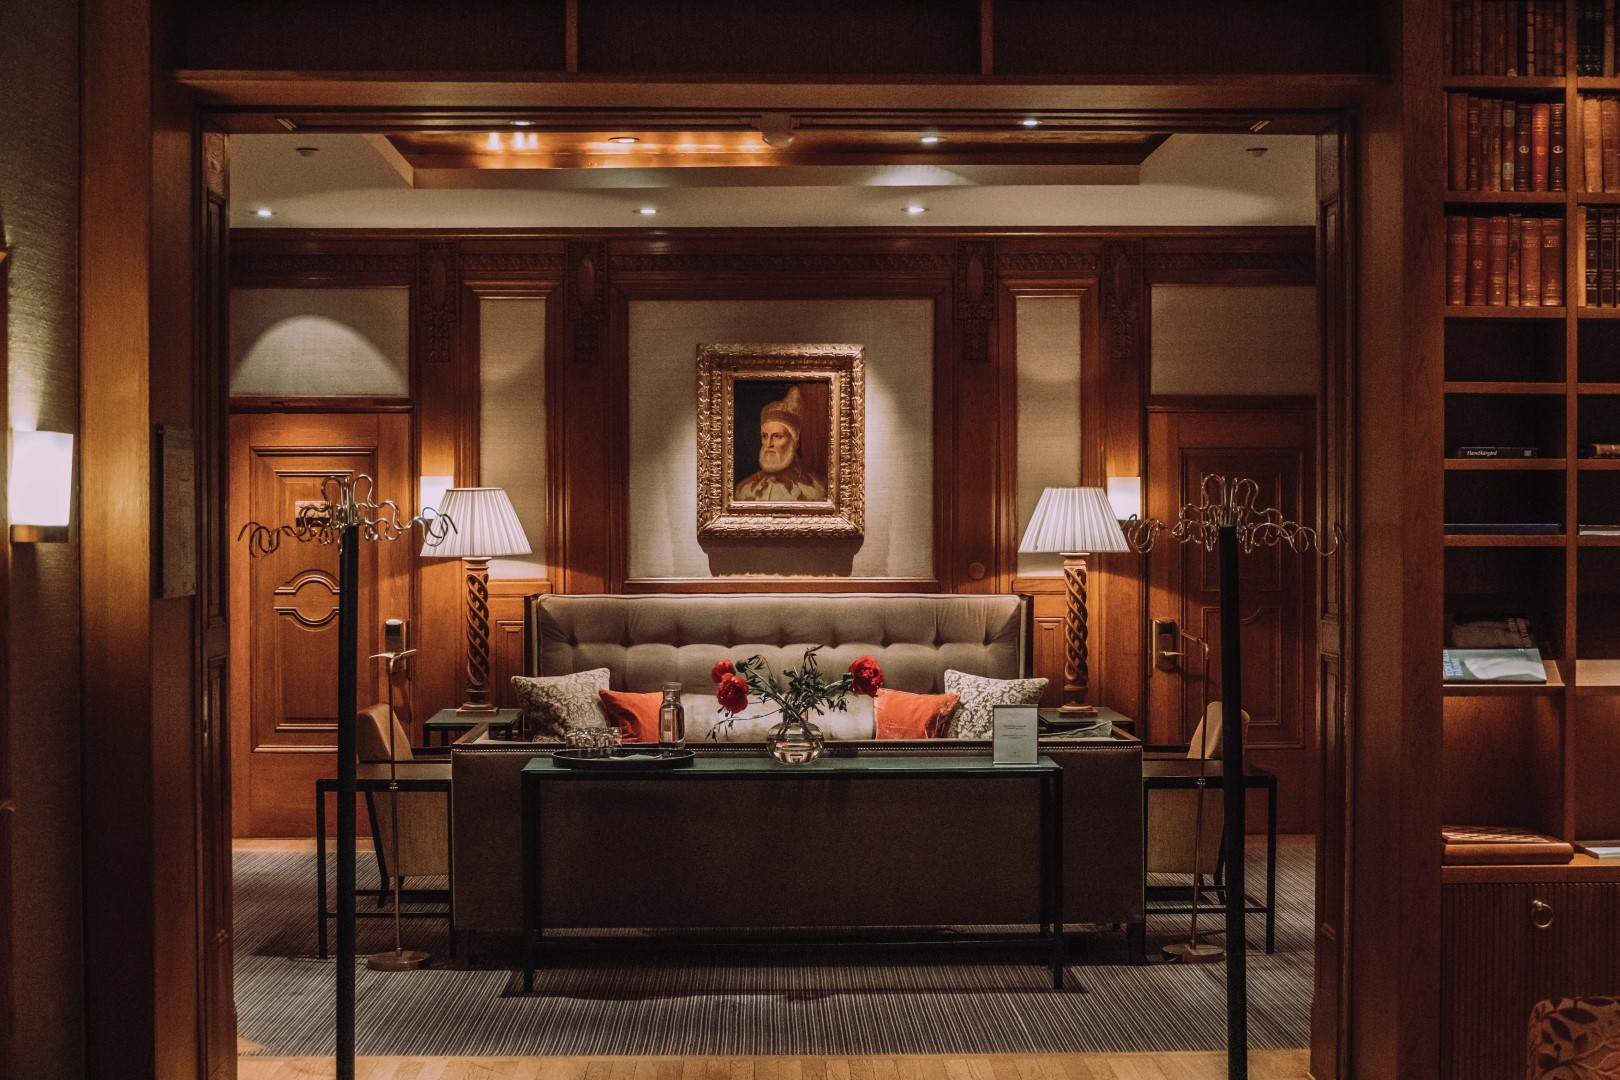
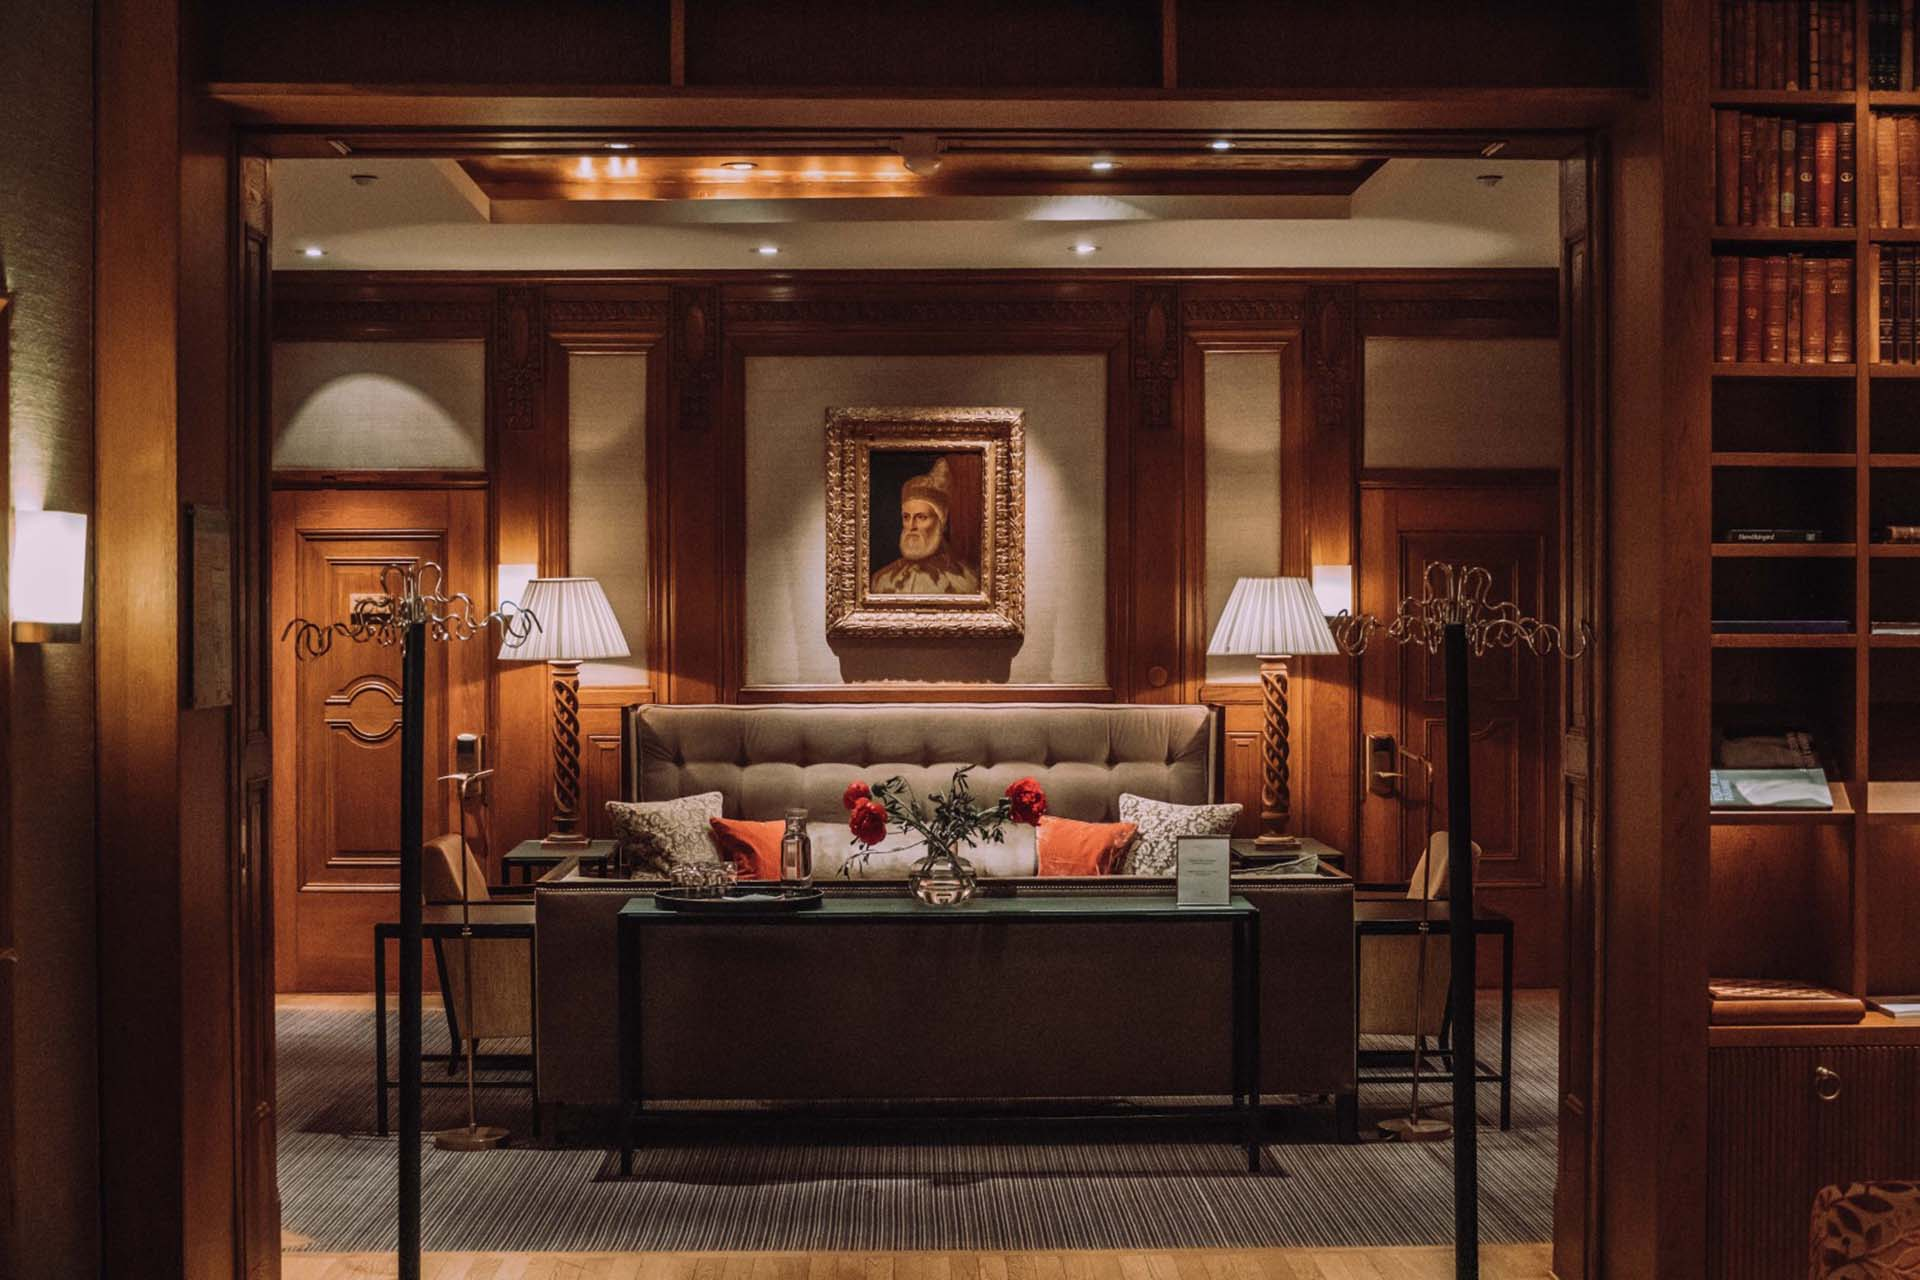
Rebuild of the Art de vivre section
Ticket KYV-508

diff --git a/pages/landing.html b/pages/landing.html
@@ -111,82 +111,80 @@
 
         <!--Art de vivre-->
         <div class="center no-padding">
-            <h6 class="txt-center">
-                Un Art de vivre
-            </h6>
             <div class="content center wrap no-padding gap-lg">
-                <div class="content flex33 no-mobile">
-                    <img class="rounded-corner col33" src="../img/lobby-hotel.jpg" alt="lobby hotel credit Rod Long"
-                        title="Credit : Rod Long">
+                <div class="content no-padding no-mobile">
+                    <img id="img-artdevivre" class="rounded-corner col33 tall" src="../img/keegan-check.jpg"
+                        alt="lobby hotel credit Keegan Check" title="Credit : Keegan Check">
                 </div>
                 <div class="content left column no-padding wide-flex50">
-                    <h2>
+                    <div class="no-gap content no-padding center column">
+                        <h6 class="txt-center">
+                            Un Art de vivre
+                        </h6>
+                        <img src="../img/kyvos-emblem2.svg" alt="Kyvos Emblem2" class="icon-lg">
+                    </div>
+                    <h3>
                         Un <span>savoir-faire</span> et un <span>savoir-être hôtelier</span>,
                         <br>
                         au service de votre entreprise.
-                    </h2>
+                    </h3>
 
                     <p class="txt-justify">Que vous soyez vous-même hôtelier ou non, vous apprécierez notre capacité
                         d’adaptation au
                         milieu
                         particulier dans lequel évolue votre entreprise.
                     </p>
-                    <p class="txt-justify">Fort de nos expériences professionnelles respectives, nous saurons
-                        compartimenter, analyser
-                        et
-                        optimiser
-                        vos opérations.<br><br>
-                    </p>
-                    <div class="content column center no-padding">
-                        <div class="content  center no-padding">
 
-                            <div class="content column no-padding">
-                                <div class="content no-padding gap-xs">
-                                    <img src="../img/icons/quote.svg" alt="quotation mark" class="icon-xs transform-x">
-                                    <h3 class="txt-justify quote font-weight-500">Maîtriser pour
-                                        s'affranchir</h3>
-                                    <img src="../img/icons/quote.svg" alt="quotation mark" class="icon-xs">
-                                </div>
-                                <p class="txt-justify">Parce que nous sommes de formation hôtelière, nous en maîtrisons
-                                    les
-                                    codes, les
-                                    enseignements
-                                    et
-                                    les
-                                    techniques. <br> C'est cette maîtrise des codes qui nous permet de savoir s'y tenir
-                                    et
-                                    quand
-                                    s'en affranchir pour s'adapter à la précision que requiert un service sur-mesure.
-                                    <br>
-                                    Parce que nous avons pratiqué cet enseignement de nombreuses années, à différents
-                                    échelons,
-                                    tant
-                                    opérationnels
-                                    qu’administratifs, nous connaissons la réalité du terrain. <br> <br>
-                                    Alors nous avons construit notre motto sur notre expérience : <br>
-                                <div class="content no-padding gap-xs">
-                                    <img src="../img/icons/quote.svg" alt="quotation mark" class="icon-xs transform-x">
-                                    <span class="quote font-weight-500 txt-xxl txt-center row"> Il faut maîtriser les
-                                        codes et savoir s’en affranchir
-                                    </span>
-                                    <img src="../img/icons/quote.svg" alt="quotation mark" class="icon-xs">
-                                </div>
+                    <div class="content column center no-padding no-gap">
+                        <p class="txt-justify">Fort de nos expériences professionnelles respectives, nous saurons
+                            compartimenter, analyser
+                            et
+                            optimiser
+                            vos opérations.<br><br>
+                        </p>
+                        <div class="content column no-padding">
+                            <div class="content center-h no-padding gap-xs">
+                                <img src="../img/icons/quote-open.svg" alt="quotation mark" class="icon-lg">
+                                <img src="../img/logos/motto.svg " alt="motto logo" class="padding-y-sm wide">
+                                <img src="../img/icons/quote-close.svg" alt="quotation mark" class="icon-lg bottom">
                             </div>
                         </div>
+                        <p class="txt-justify">Parce que nous sommes de formation hôtelière, nous en maîtrisons
+                            les
+                            codes, les
+                            enseignements
+                            et
+                            les
+                            techniques. <br> C'est cette maîtrise des codes qui nous permet de savoir s'y tenir
+                            et
+                            quand
+                            s'en affranchir pour s'adapter à la précision que requiert un service sur-mesure.
+                            <br>
+                            Parce que nous avons pratiqué cet enseignement de nombreuses années, à différents
+                            échelons,
+                            tant
+                            opérationnels
+                            qu’administratifs, nous connaissons la réalité du terrain. <br> <br>
+                            Alors nous avons construit notre motto sur notre expérience.
+                        </p>
                     </div>
                 </div>
-
             </div>
+
         </div>
 
         <!--Prestations-->
         <div id="nos-prestations" class="center no-gap">
-            <h6 class="txt-center">
-                Prestations </h6>
+            <div class="content no-padding no-gap column center">
+                <h6 class="txt-center">
+                    Prestations
+                </h6>
+                <img src="../img/kyvos-emblem2.svg" alt="Kyvos Emblem2" class="icon-lg">
+            </div>
             <div class="content column center">
-                <h2 class=" mob-txt-left">
+                <h3 class=" mob-txt-left">
                     Un accompagnement sur-mesure
-                </h2>
+                </h3>
                 <p class=" mob-txt-left padding-sm">Nous attachons une attention particulière à dessiner
                     l’accompagnement dont
                     vous avez besoin.
@@ -200,7 +198,7 @@
                             <div class="icon-lg round icon-style-colored"><img src="../img/icons/search.svg"
                                     alt="search icon">
                             </div>
-                            <h3>Audits qualifiés</h3>
+                            <h4>Audits qualifiés</h4>
                         </div>
                         <p class="txt-justify">
                             D'une durée variable, selon la profondeur avec laquelle vous souhaitez analyser votre
@@ -233,8 +231,8 @@
                             du quotidien
                         </p>
                     </div>
-                    <img class="rounded-corner half-content-width no-mobile" src=" ../img/scott-graham.jpg"
-                        alt="Photo bureau d'audit" title="Credit: Scott Graham">
+                    <img class="rounded-corner half-content-width no-mobile" src=" ../img/lobby-hotel.jpg"
+                        alt="Photo Lobby" title="Credit: Rod Long">
                 </div>
             </div>
 
@@ -248,7 +246,7 @@
                             <div class="icon-lg round icon-style-colored"><img src="../img/icons/map.svg"
                                     alt="map icon">
                             </div>
-                            <h3>Planification</h3>
+                            <h4>Planification</h4>
                         </div>
                         <p class="txt-justify">
                             La planification est le point d'origine du succès du déploiement. Elle doit être précise
@@ -289,7 +287,7 @@
                             <div class="icon-lg round icon-style-colored"><img src="../img/icons/graduation-hat.svg"
                                     alt="graduation hat icon">
                             </div>
-                            <h3>Déploiement </h3>
+                            <h4>Déploiement </h4>
                         </div>
                         <p class="txt-justify">
                             Partager le déploiement selon les forces de chacun et impliquer au maximum les équipes
@@ -331,8 +329,12 @@
 
         <!--Tarifs-->
         <div id="tarifs" class="wide column no-gap">
-            <h6 class="txt-center">Tarifs</h6>
-
+            <div class="content no-padding no-gap column center">
+                <h6 class="txt-center">
+                    Tarifs
+                </h6>
+                <img src="../img/kyvos-emblem2.svg" alt="Kyvos Emblem2" class="icon-lg">
+            </div>
             <!--Tarif Clé-->
             <div class="content no-padding center mob-center wide wrap gap-sm">
                 <h2 class="content center no-wrap column "> Un tarif
@@ -995,8 +997,8 @@
 
     <!--Contact Popup-->
     <iframe id="contact-popup" class="inactive clickup-embed popup popup-content hide-footer hide-header no-padding"
-        src="https://forms.clickup.com/36858679/p/f/134utq-7122/AHNBTCJBS9T3PDILCE/formulaire" onwheel="" width="100%"
-        height="700px" style="background: white; border: 1px solid #ccc;"></iframe>
+        src="https://forms.clickup.com/36858679/p/f/134utq-7122/AHNBTCJBS9T3PDILCE/formulaire" onwheel="" width="80%"
+        height="100%" style="background: white; border: 1px solid #ccc;"></iframe>
 
     <!-- Footer -->
     <footer id="footer">

diff --git a/css/style.css b/css/style.css
@@ -8,8 +8,8 @@
   --txt-size-xxl: 1.3rem;
   --display-size-xs: 1.5rem;
   --display-size-sm: 1.8rem;
-  --display-size-md: 2rem;
-  --display-size-lg: 2.5rem;
+  --display-size-md: 2.2rem;
+  --display-size-lg: 2.8rem;
   --display-size-xl: 3.5rem;
   --display-size-xxl: 4rem;
 
@@ -162,6 +162,7 @@ h4 {
   font-family: "Circular", sans-serif;
   font-size: var(--display-size-sm);
   font-weight: 600;
+  margin: 0px;
 }
 
 h5 {
@@ -176,9 +177,6 @@ h6 {
   font-size: var(--txt-size-xl);
   font-weight: 600;
   color: var(--color-main700);
-  background-image: url("../img/kyvos-emblem2.svg");
-  padding-top: 1rem;
-  padding-bottom: 1rem;
 }
 
 p {
@@ -293,6 +291,10 @@ label[required]+input[required]:invalid:after {
   min-height: 30vh;
 }
 
+#img-artdevivre {
+  height: 100%;
+}
+
 .colored-bkg-light {
   background-color: var(--color-main100);
 }
@@ -335,8 +337,24 @@ label[required]+input[required]:invalid:after {
   display: flex;
   justify-content: center;
   align-items: center;
-  width: 3rem;
-  height: 3rem;
+  width: 2.5rem;
+  height: 2.5rem;
+}
+
+.icon-xl {
+  display: flex;
+  justify-content: center;
+  align-items: center;
+  width: 4rem;
+  height: 4rem;
+}
+
+.icon-xxl {
+  display: flex;
+  justify-content: center;
+  align-items: center;
+  width: 6rem;
+  height: 6rem;
 }
 
 .icon-style-colored {
@@ -1111,11 +1129,11 @@ button {
 }
 
 .top {
-  align-items: flex-start;
+  align-self: flex-start;
 }
 
 .bottom {
-  align-items: flex-end;
+  align-self: flex-end;
 }
 
 .center {
@@ -1170,7 +1188,6 @@ button {
 
 .no-padding {
   padding: 0px;
-  gap: 1rem;
 }
 
 .padding-top-sm {
@@ -1517,6 +1534,14 @@ button {
 
 .rounded-corner {
   border-radius: 0.2rem;
+}
+
+.background-emblem1 {
+  background-image: url("../img/kyvos-emblem1.svg");
+}
+
+.background-emblem2 {
+  background-image: url("../img/kyvos-emblem2.svg");
 }
 
 /* Style for wide screen */
